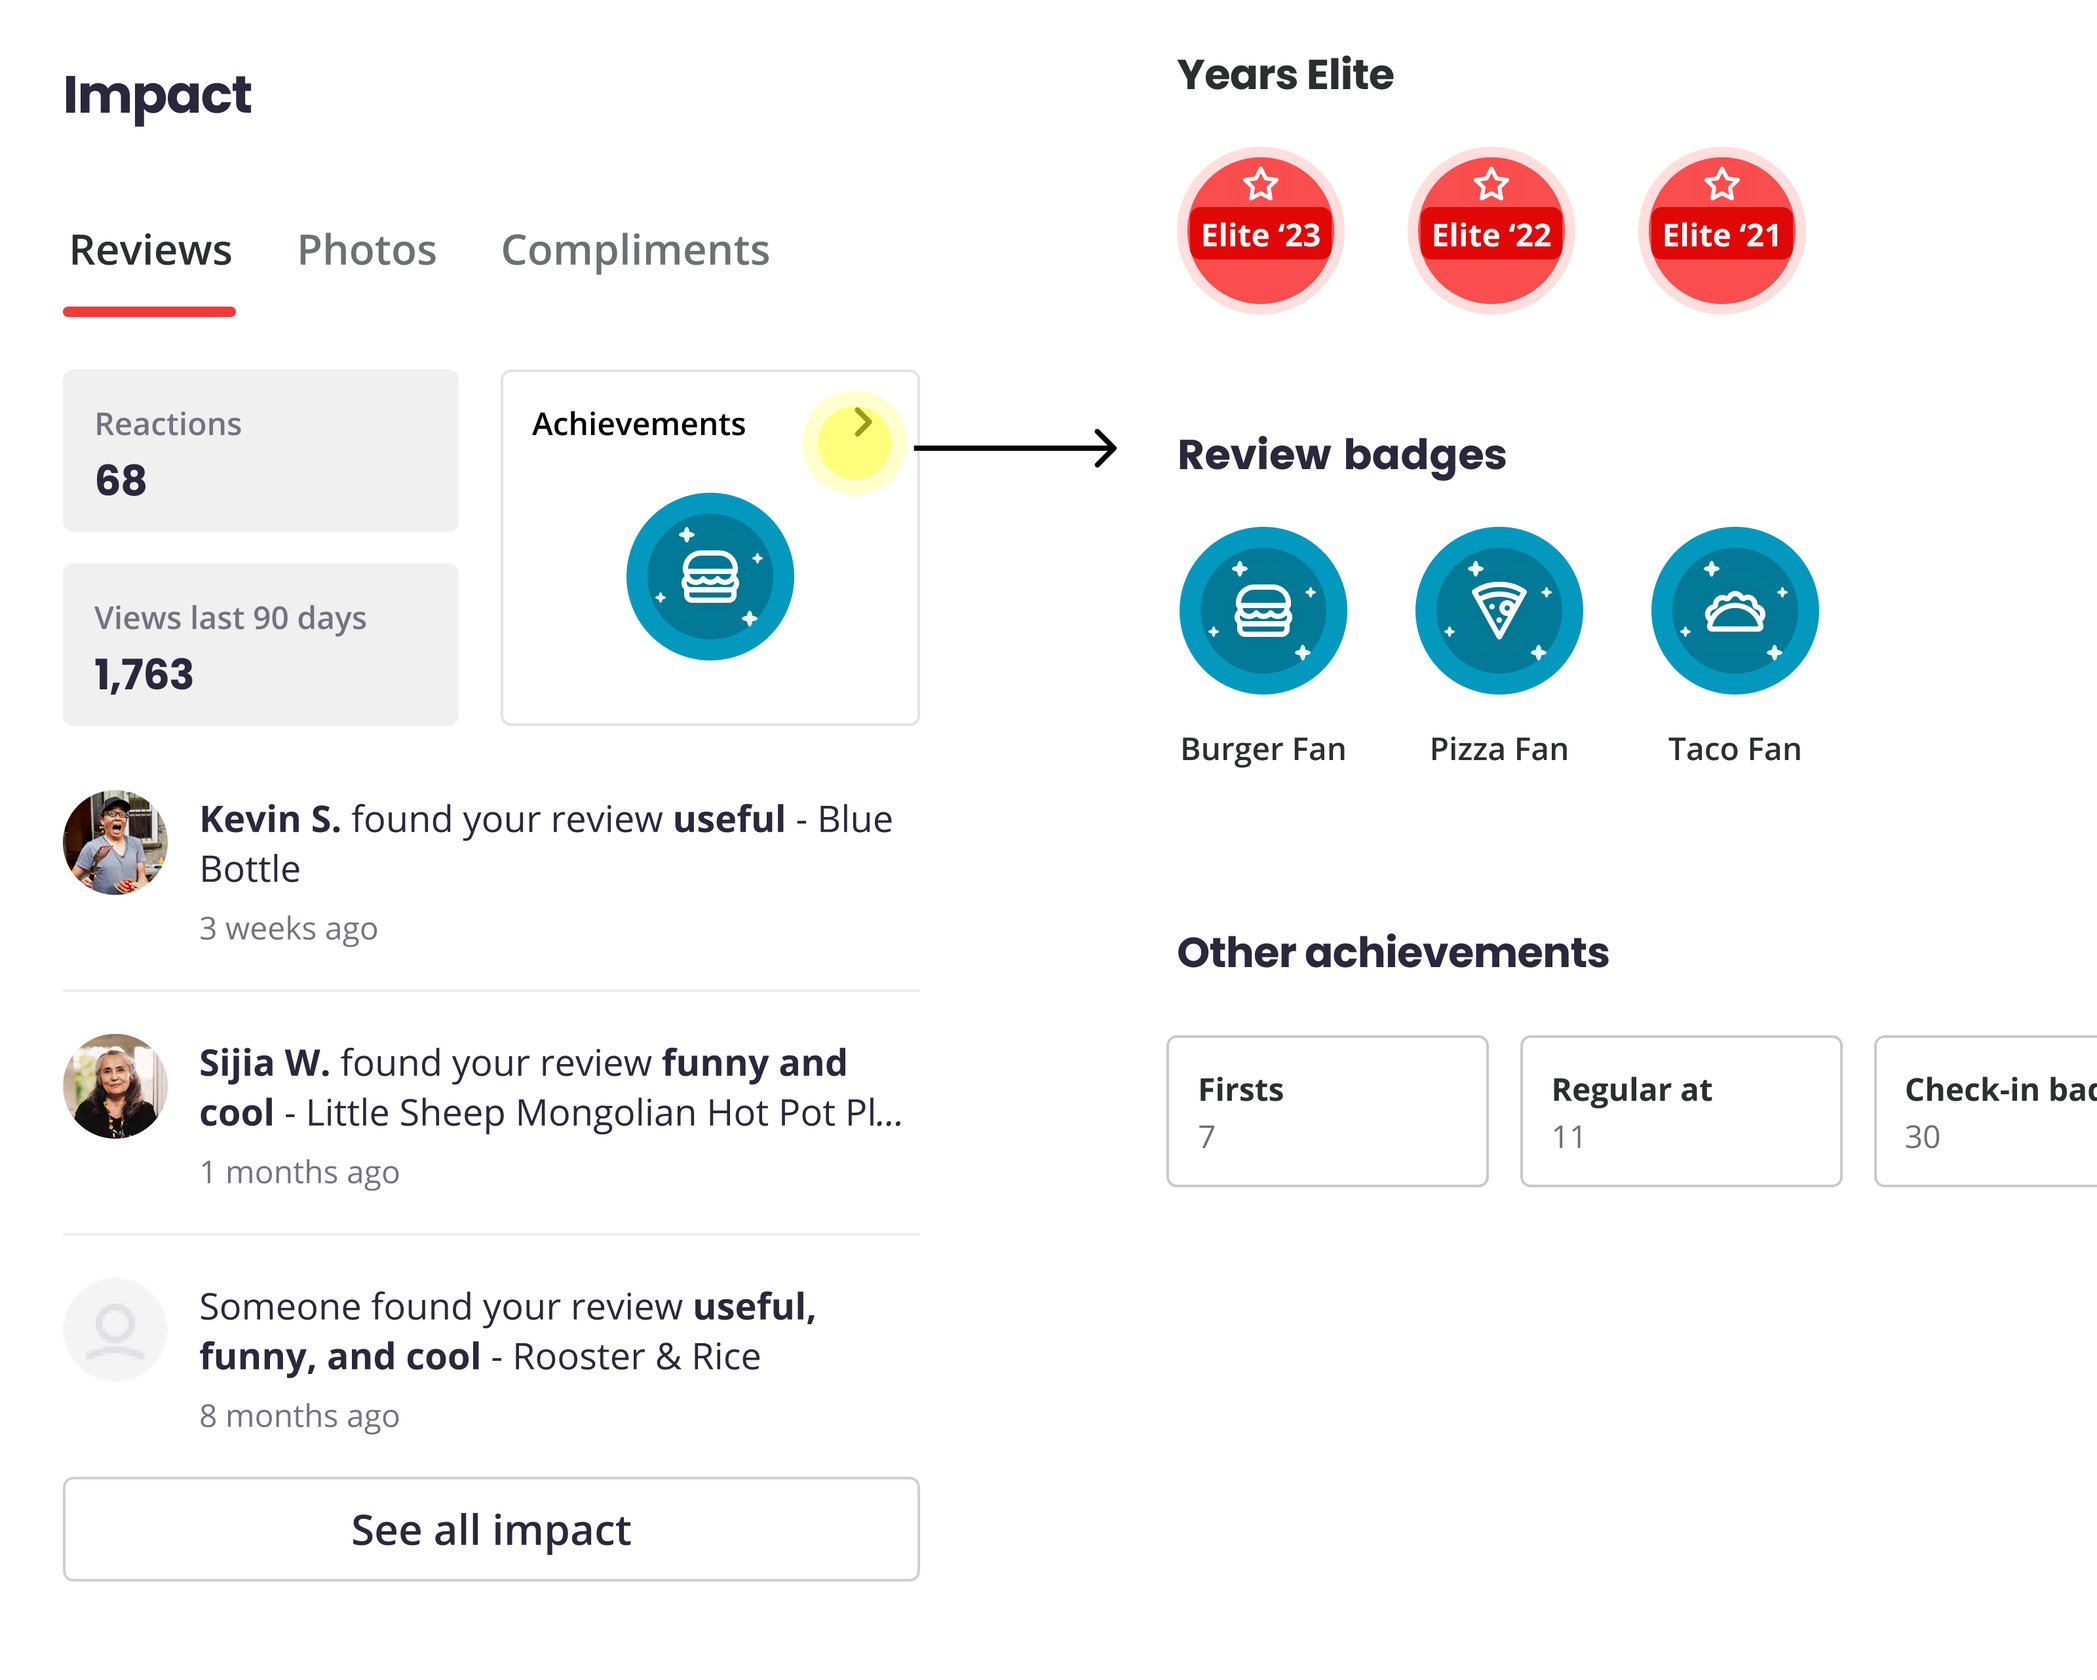
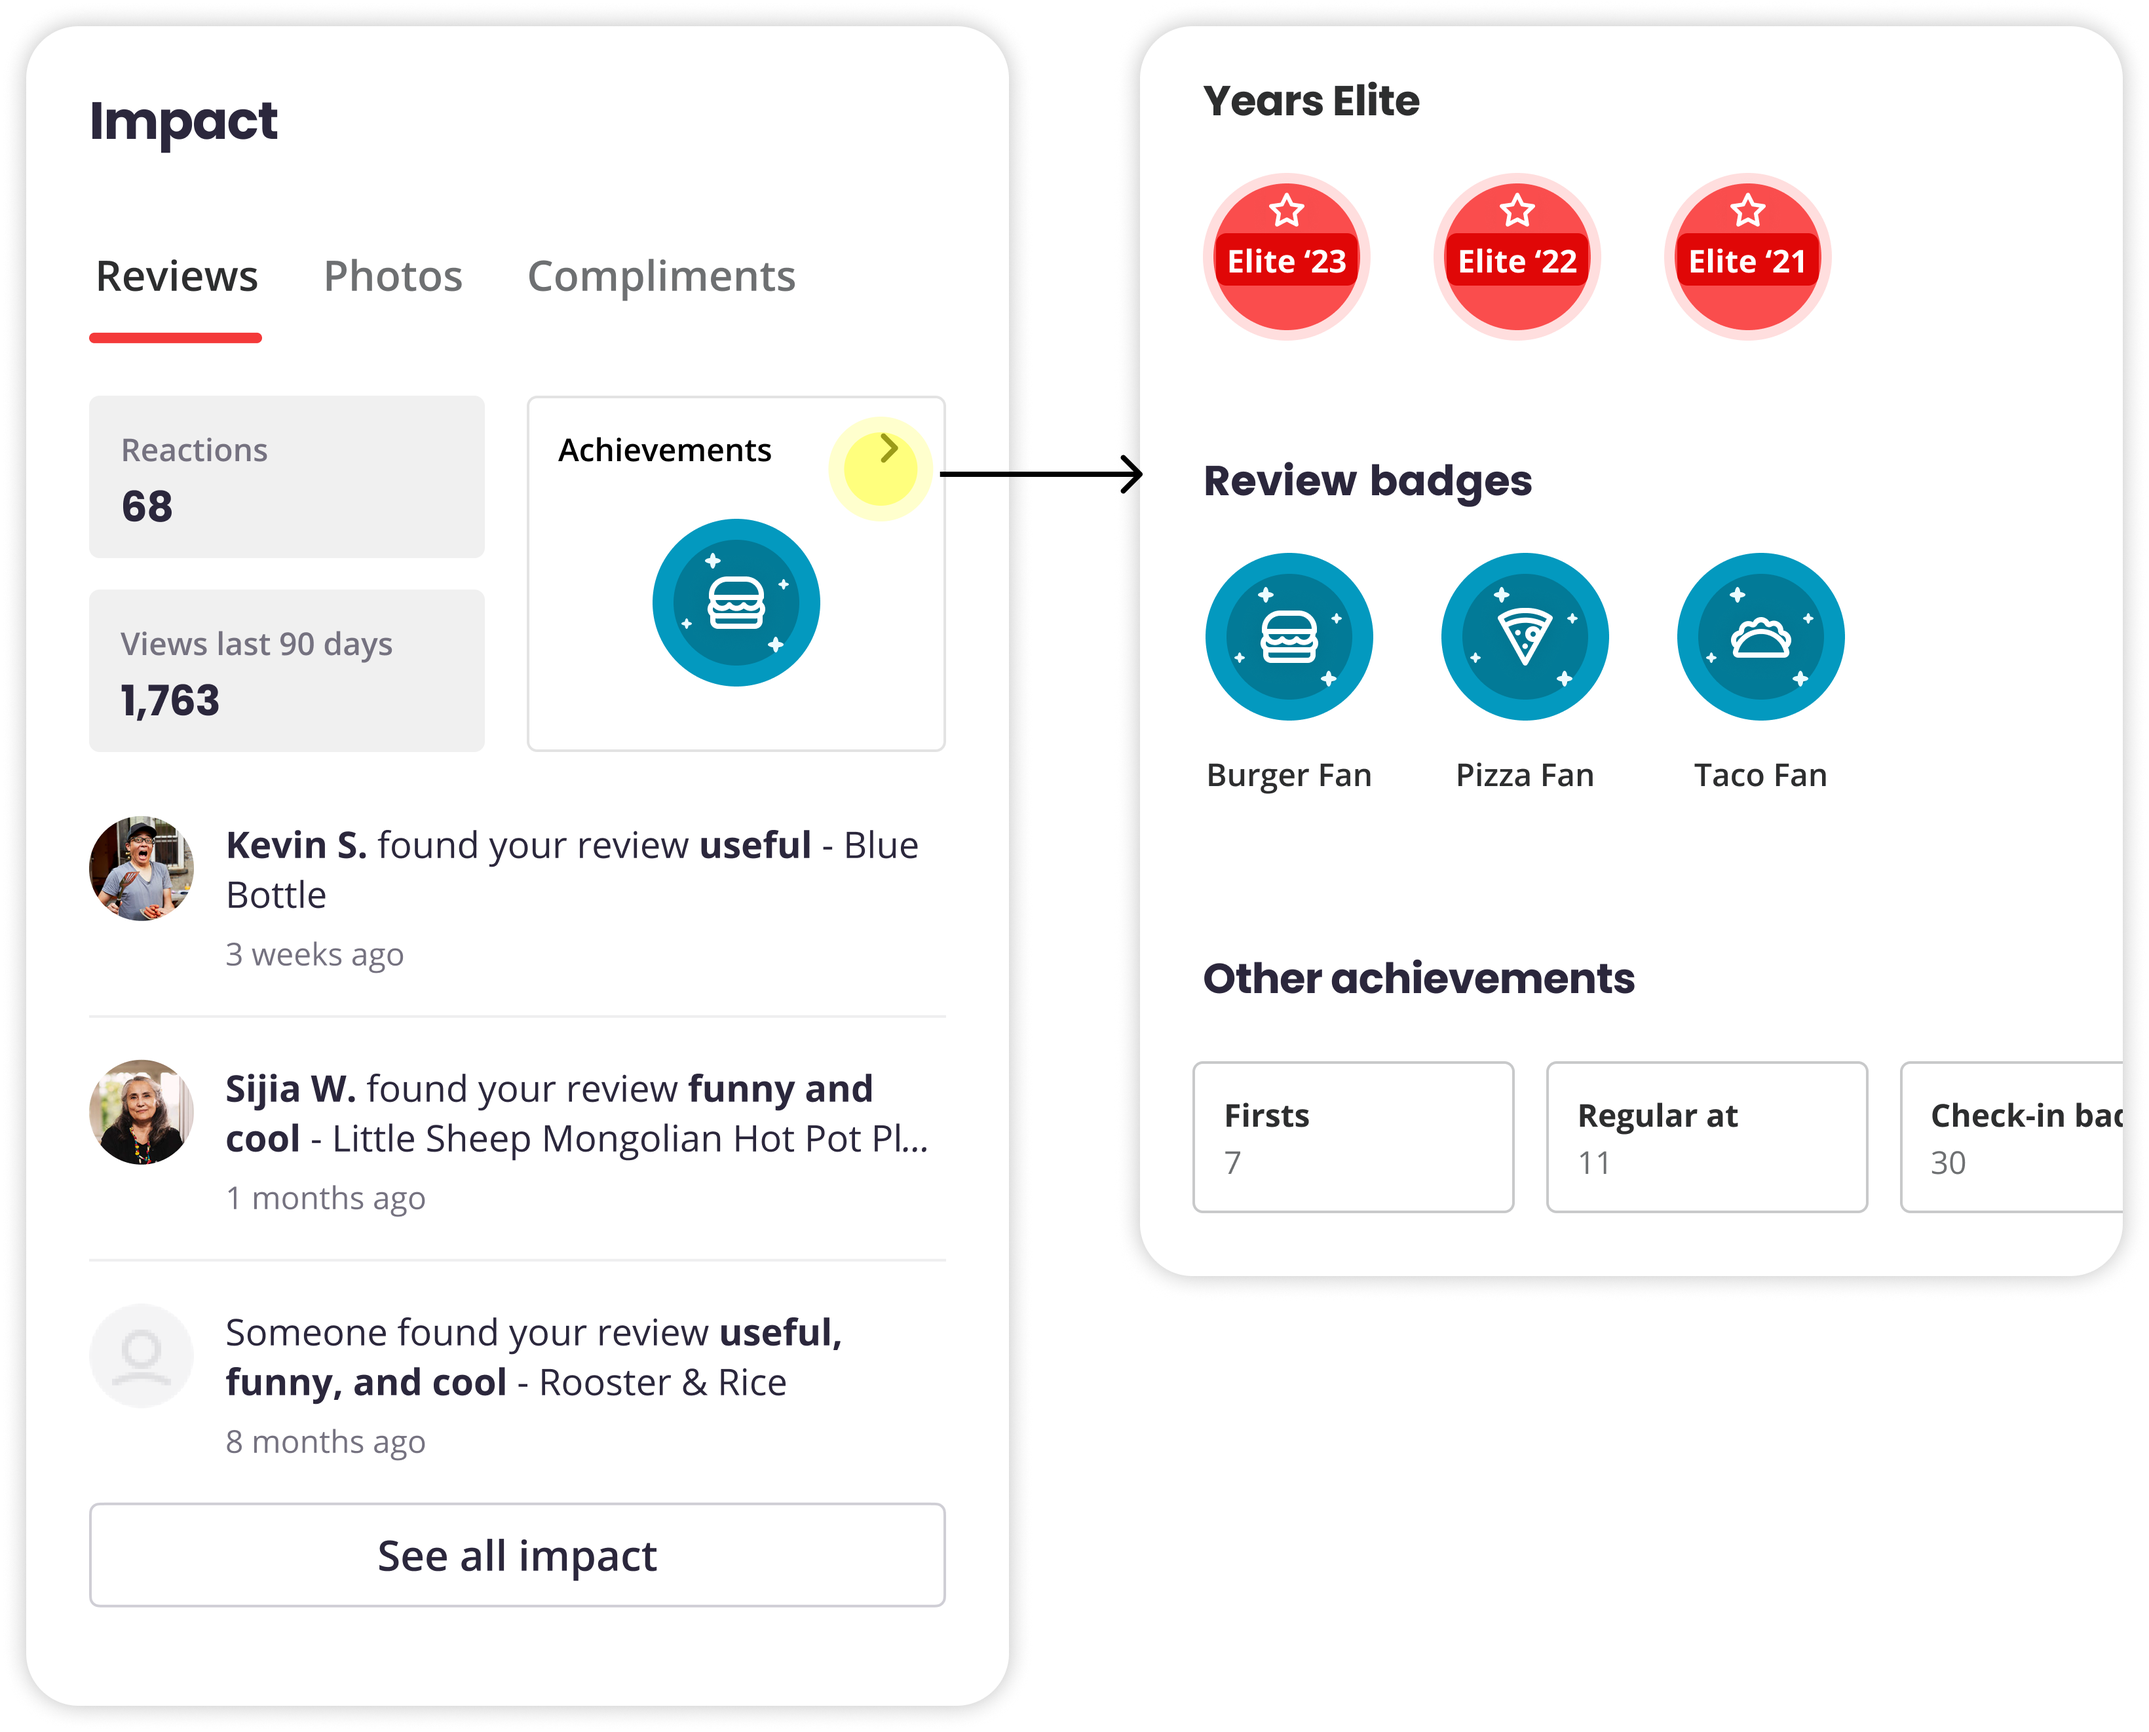
Add captions to MeTab discarded design images

diff --git a/app/work/recognition/page.tsx b/app/work/recognition/page.tsx
@@ -214,14 +214,20 @@ export default function Recognition() {
               <span className="text-neutral-400 mr-1.5">✕</span>Recognitions inside the Impact section
             </p>
             <p className="text-sm text-neutral-500 mb-4">Conflated two distinct concepts. Users understood Impact as metrics (reaction counts, view counts), not milestones or achievements. Mixing them created confusion about what the recognition was measuring.</p>
-            <Image src="/images/Recognition/Me-tab-discarded-design-1-1.png" alt="Recognitions inside Impact section" width={800} height={600} className="w-full rounded-lg" style={{ objectFit: "contain" }} />
+            <figure className="not-prose">
+              <Image src="/images/Recognition/Me-tab-discarded-design-1-1.png" alt="Recognitions inside Impact section" width={800} height={600} className="w-full rounded-lg" style={{ objectFit: "contain" }} />
+              <figcaption className="text-xs text-neutral-400 text-center mt-2">Showing recognition in the Impact section</figcaption>
+            </figure>
           </div>
           <div className="rounded-xl border border-neutral-200 p-5">
             <p className="text-sm font-semibold text-neutral-700 mb-2">
               <span className="text-neutral-400 mr-1.5">✕</span>Expandable / collapsed Achievements block
             </p>
             <p className="text-sm text-neutral-500 mb-4">Added interaction cost without adding delight. The problem was findability, not space. A collapsed pattern would have made recognitions harder to discover, not easier.</p>
-            <Image src="/images/Recognition/Me-tab-discarded-design-1-2.png" alt="Expandable collapsed Achievements block" width={800} height={600} className="w-full rounded-lg" style={{ objectFit: "contain" }} />
+            <figure className="not-prose">
+              <Image src="/images/Recognition/Me-tab-discarded-design-1-2.png" alt="Expandable collapsed Achievements block" width={800} height={600} className="w-full rounded-lg" style={{ objectFit: "contain" }} />
+              <figcaption className="text-xs text-neutral-400 text-center mt-2">Collapsed achievement section with both Elites and Recogntions</figcaption>
+            </figure>
           </div>
         </div>
 
